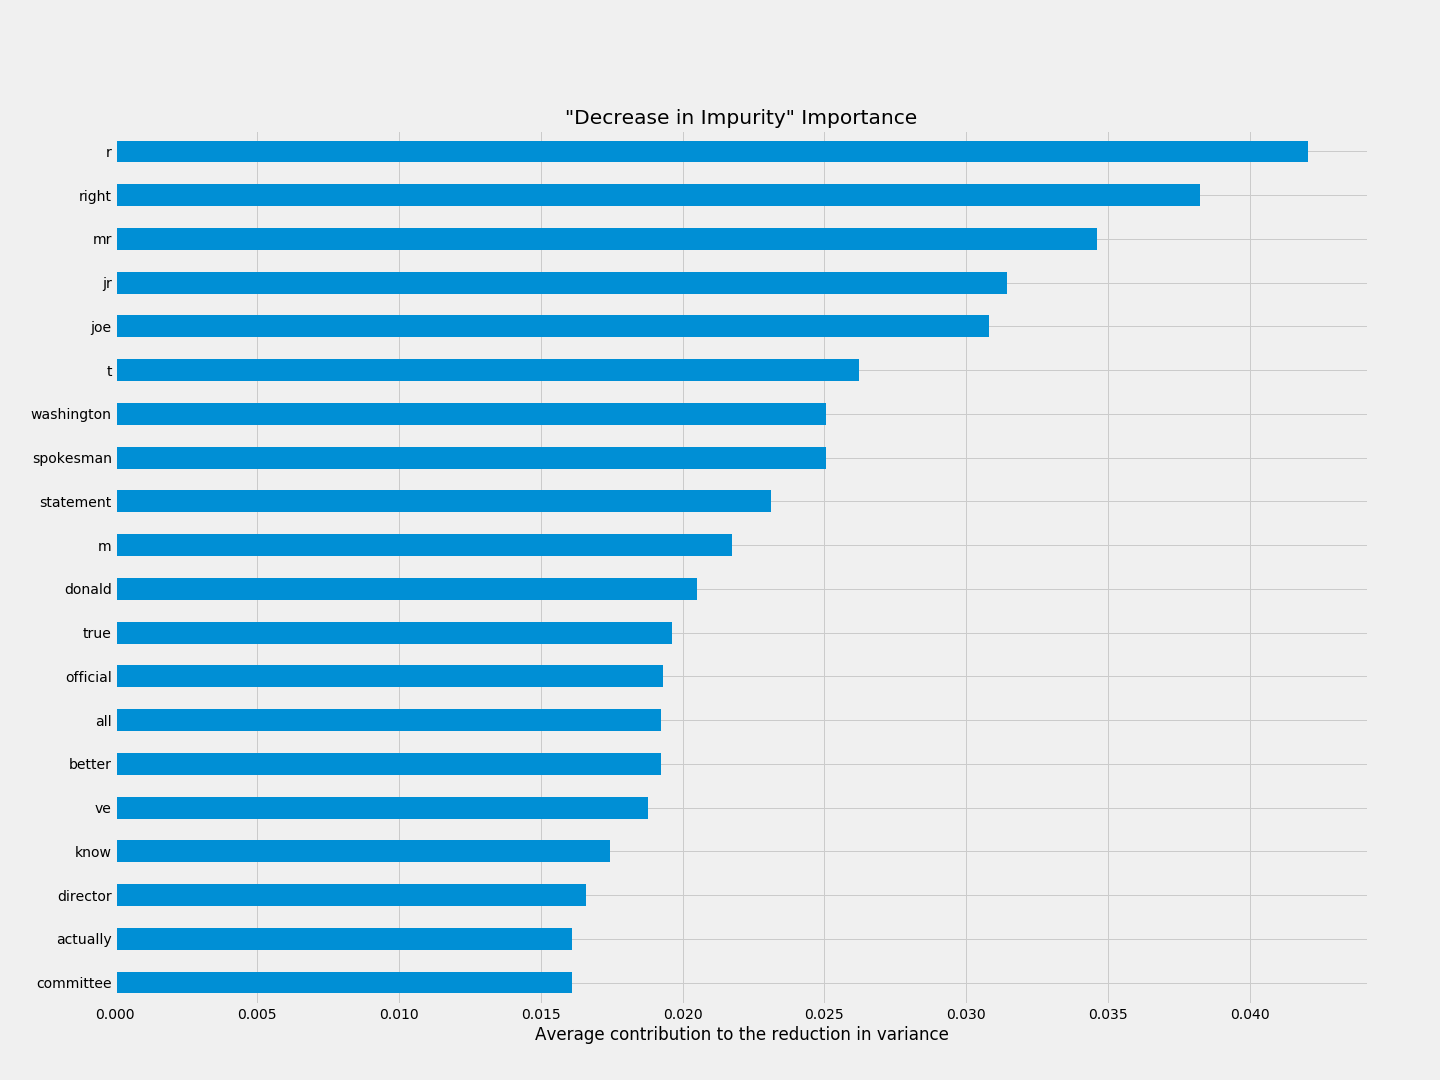
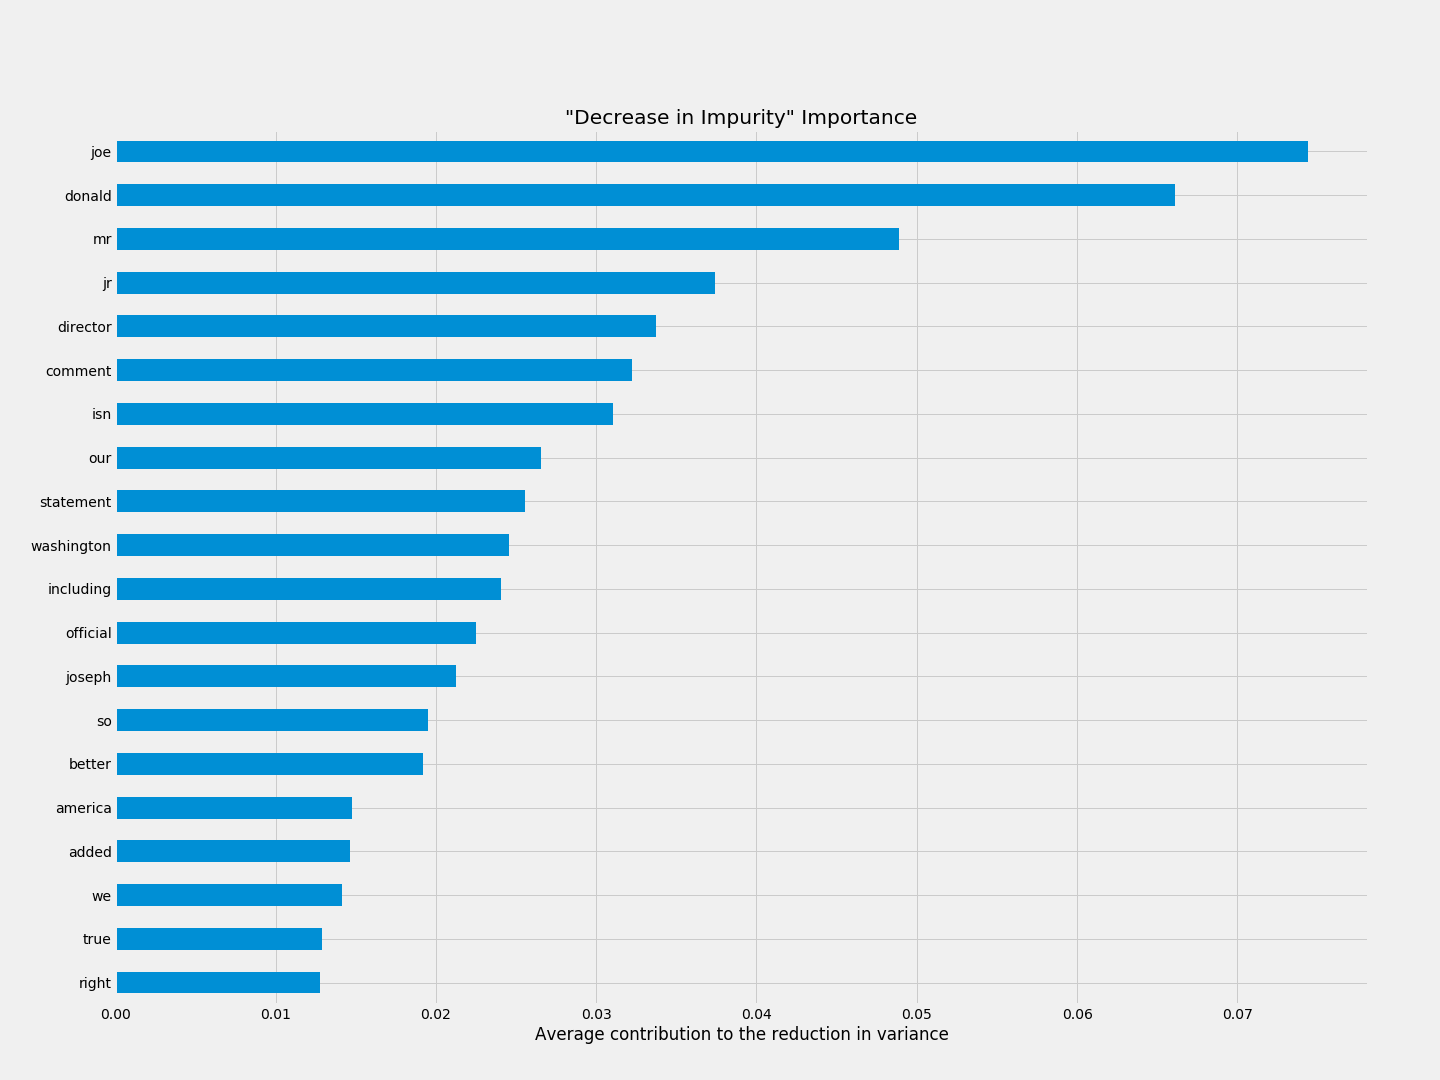
2020 keyword,print, alpahbet

diff --git a/Notes.md b/Notes.md
@@ -10,26 +10,24 @@
 
 ## The Data:
 
-##### 2019-2020. Print. Keyword='United States Politics and Government'.
+##### 2020. Print. Keyword='United States Politics and Government'.
 
 ![Number of Op-Ed and News articles](img/oped_news_hist.png)
 
 ---
 ## The Model:
-stop_words = NONE
+stop_words = ['a','b','c','d', 'e', 'f', 'g', 'h', 'i', 'j', 'k', 'l', 'm', 'n', 'o', 'p', 'q', 'r', 's', 't', 'u', 'v', 'w', 'x', 'y', 'z']
 
 ## Model Performance: 
 
 ![Confusion Matrix](img/confusion_matrix.png)
 
-accuracy = 0.9241499564080209
-recall = 0.9293478260869565
-precision = 0.6979591836734694
-tn:889 fp:74 fn:13 tp:171
+accuracy = 0.942458587619878
+recall = 0.9021739130434783
+precision = 0.7757009345794392
+tn:915 fp:48 fn:18 tp:166
 
 ## Analysis:
-
-###### Important features: Many features are political and are causing the model to predict based on topic, not sentiment. 
 
 ![Important Features](img/feature_imporance.png)
 
